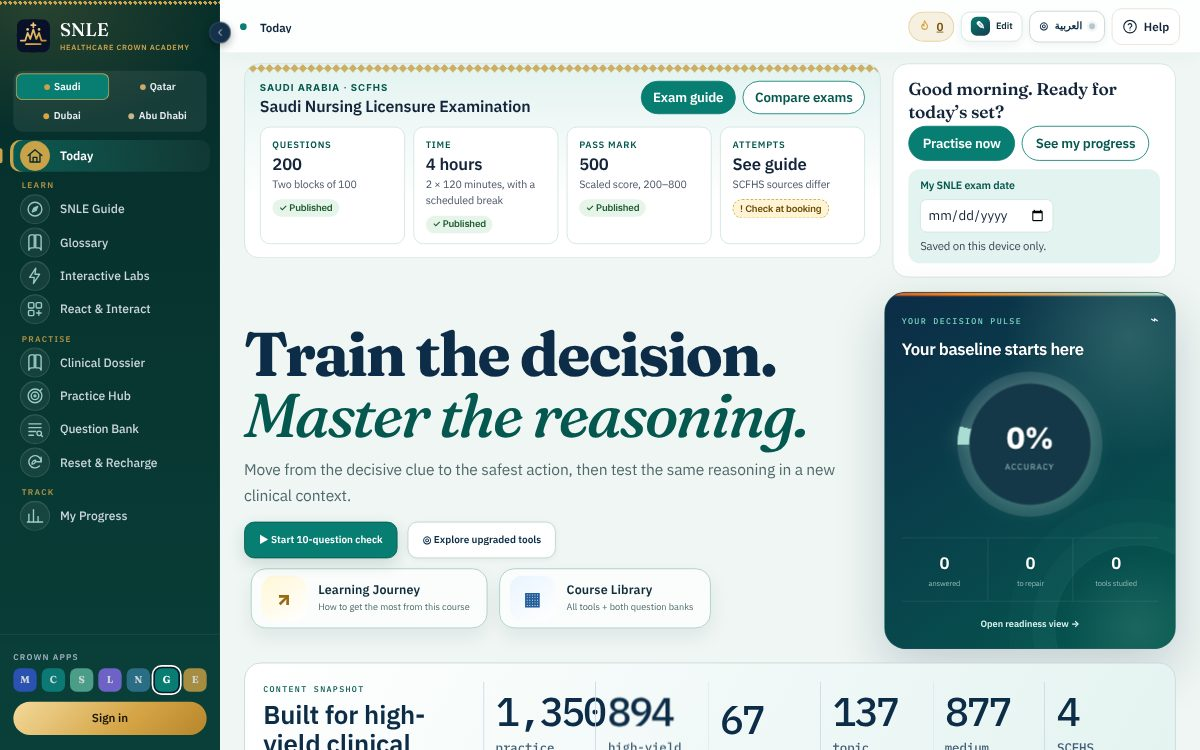
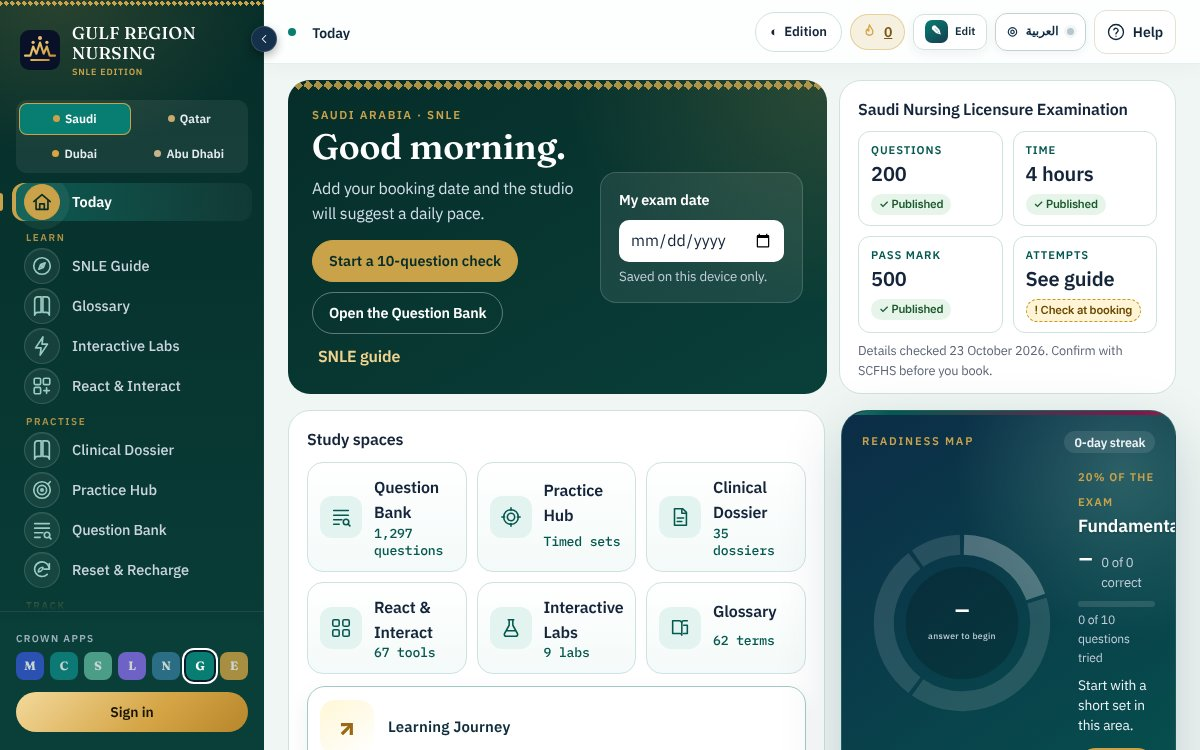
Home: new Gulf Region Nursing studio screenshots

diff --git a/site/sw.js b/site/sw.js
@@ -3,7 +3,7 @@
    static assets are stale-while-revalidate. Cross-origin requests
    (the Supabase API) are never cached. Bump VERSION on every release.
    /carecraft and /serein use content-hashed file names, so cached copies never go stale. */
-const VERSION = 'hca-v70';
+const VERSION = 'hca-v71';
 const CORE = [
   '/',
   '/privacy',
